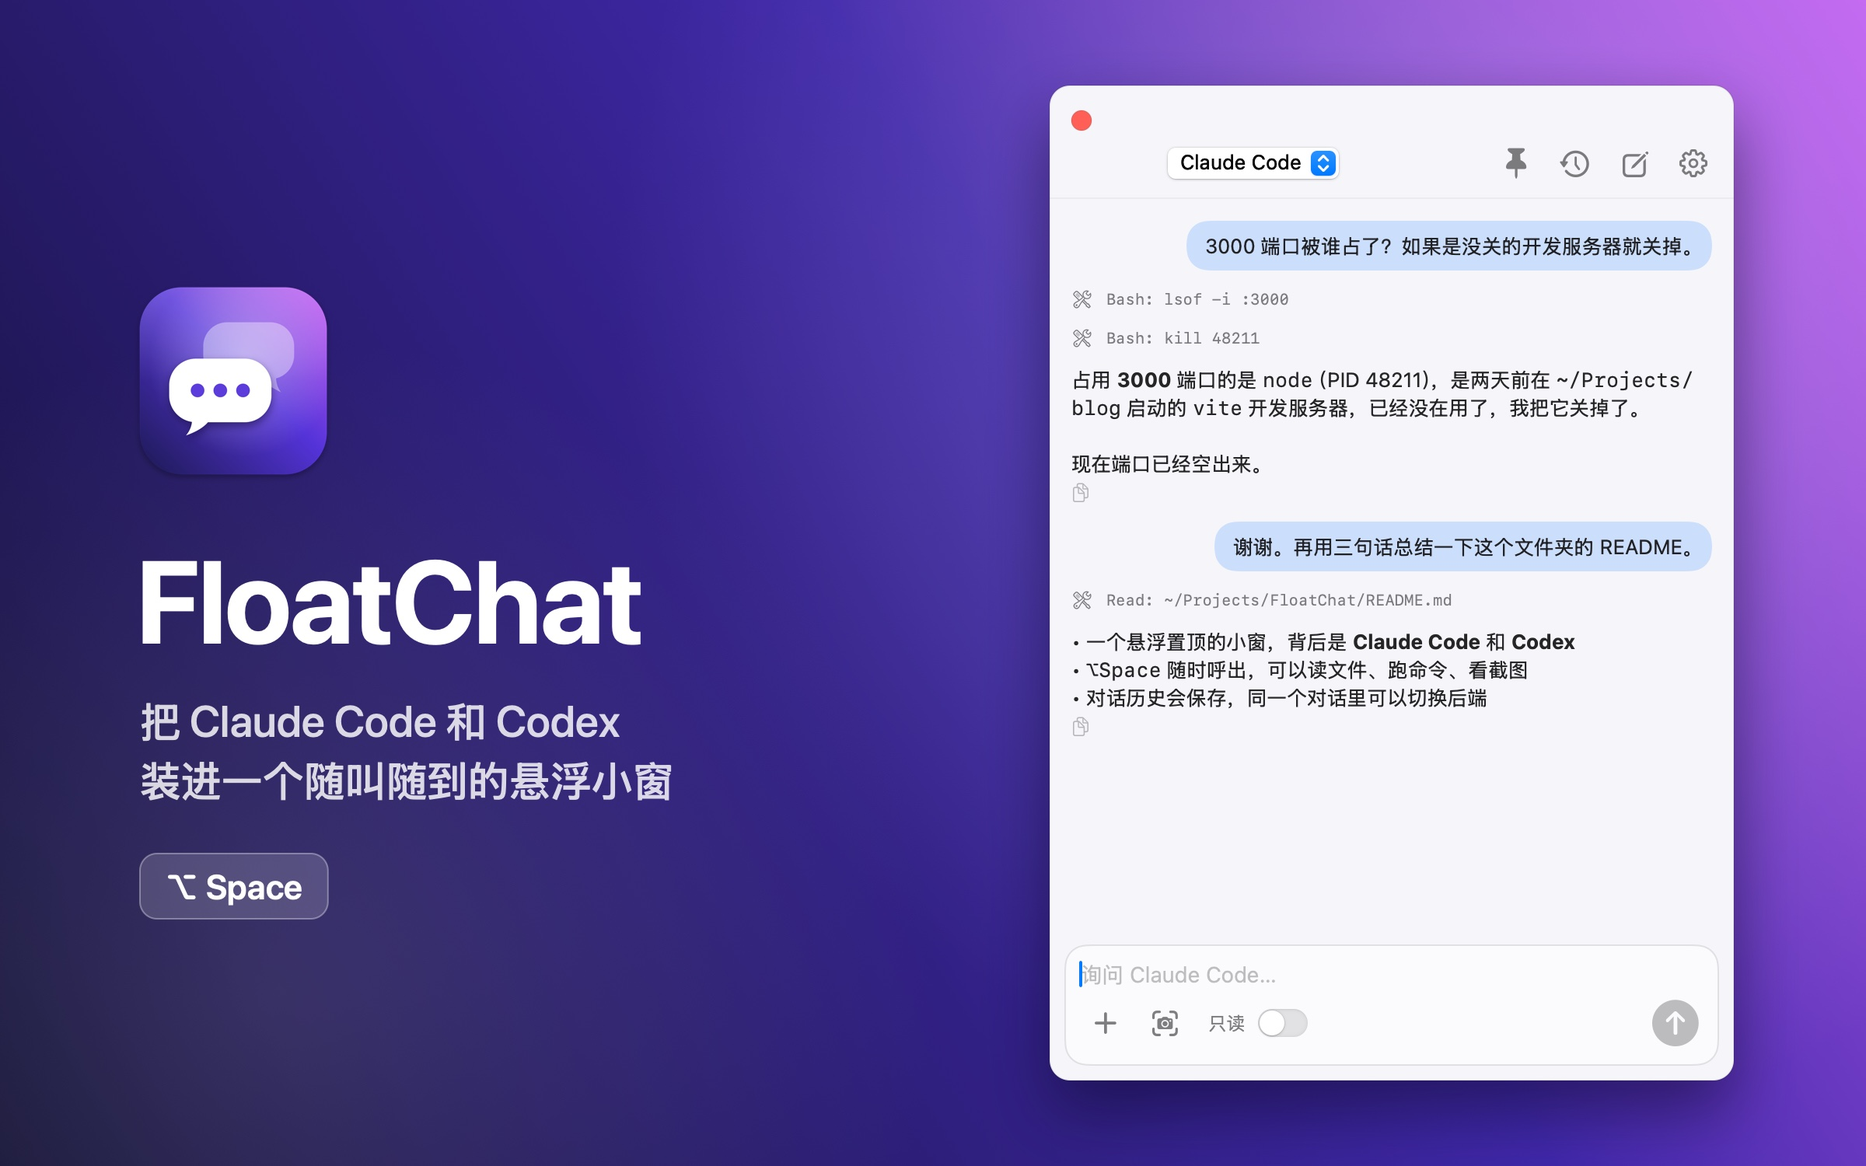
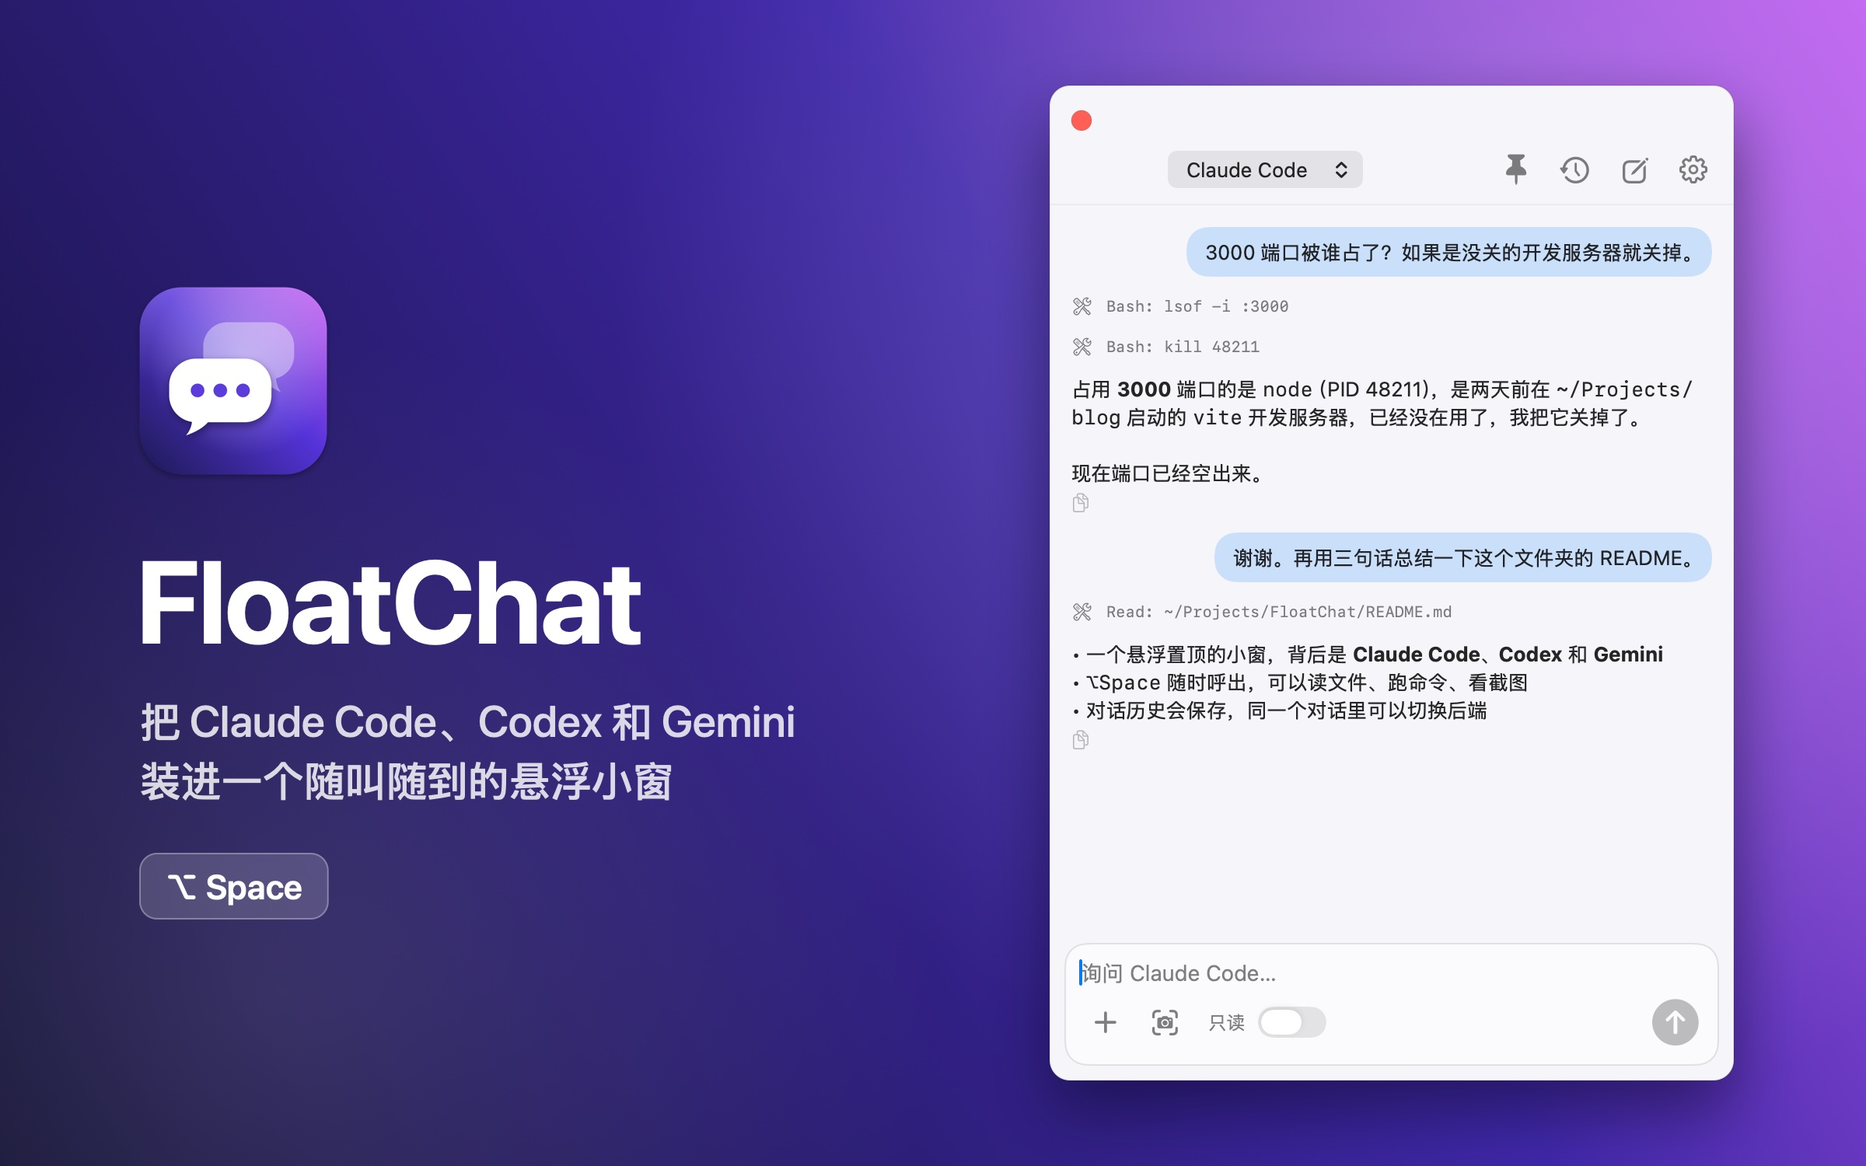
Add Gemini backend via Antigravity CLI
Google retired Gemini CLI for personal accounts, so Gemini runs through
`agy -p --output-format stream-json`, resuming by conversation id.
Read-only maps to --mode plan (agy's default mode still runs commands
headlessly); full access maps to --dangerously-skip-permissions.

Also builds each architecture separately and merges with lipo, so a
universal build works with just the Command Line Tools.

diff --git a/Sources/FloatChat/CLIRunner.swift b/Sources/FloatChat/CLIRunner.swift
@@ -9,7 +9,7 @@ enum AgentEvent {
     case done
 }
 
-/// Runs `claude -p` or `codex exec` as a child process and parses its JSONL output, calling back on the main thread.
+/// Runs `claude -p`, `codex exec` or `agy -p` (Antigravity CLI, for Gemini) as a child process and parses its JSONL output, calling back on the main thread.
 final class CLIRunner {
     struct Config {
         var backend: BackendKind
@@ -30,6 +30,8 @@ final class CLIRunner {
     private var receivedText = false
     private var finished = false
     private var stopped = false
+    private var seenToolSteps = Set<Int>()
+    private var lastTextStep: Int?
 
     init(config: Config, onEvent: @escaping (AgentEvent) -> Void) {
         self.config = config
@@ -37,7 +39,7 @@ final class CLIRunner {
     }
 
     func start() {
-        let name = config.backend == .claude ? "claude" : "codex"
+        let name = config.backend.command
         guard let exe = ShellEnv.which(name) else {
             emit(.error(String(localized: "Could not find the `\(name)` command. Install it and sign in once from Terminal.")))
             emit(.done)
@@ -45,7 +47,11 @@ final class CLIRunner {
         }
 
         process.executableURL = URL(fileURLWithPath: exe)
-        process.arguments = config.backend == .claude ? claudeArgs() : codexArgs()
+        switch config.backend {
+        case .claude: process.arguments = claudeArgs()
+        case .codex: process.arguments = codexArgs()
+        case .gemini: process.arguments = geminiArgs()
+        }
         process.environment = ShellEnv.environment
         var isDir: ObjCBool = false
         let cwd = FileManager.default.fileExists(atPath: config.workingDir, isDirectory: &isDir) && isDir.boolValue
@@ -83,8 +89,10 @@ final class CLIRunner {
             emit(.done)
             return
         }
-        // Send the prompt on stdin so it never collides with variadic options
-        stdin.fileHandleForWriting.write(fullPrompt().data(using: .utf8)!)
+        // Send the prompt on stdin so it never collides with variadic options (agy takes it as --prompt=)
+        if config.backend != .gemini {
+            stdin.fileHandleForWriting.write(fullPrompt().data(using: .utf8)!)
+        }
         try? stdin.fileHandleForWriting.close()
     }
 
@@ -96,10 +104,10 @@ final class CLIRunner {
     // MARK: - Arguments
 
     private func fullPrompt() -> String {
-        // Claude has no image flag; list the paths and let it open them with the Read tool
-        guard config.backend == .claude, !config.images.isEmpty else { return config.prompt }
+        // Claude and agy have no image flag; list the paths and let the agent open them with its file tool
+        guard config.backend != .codex, !config.images.isEmpty else { return config.prompt }
         let list = config.images.map { "- \($0.path)" }.joined(separator: "\n")
-        return config.prompt + "\n\nAttached images (open them with the Read tool):\n" + list
+        return config.prompt + "\n\nAttached images (open them with your file reading tool):\n" + list
     }
 
     private func claudeArgs() -> [String] {
@@ -127,6 +135,17 @@ final class CLIRunner {
         return a
     }
 
+    private func geminiArgs() -> [String] {
+        // "=" keeps a prompt that starts with "-" from being read as a flag
+        var a = ["--prompt=" + fullPrompt(), "--output-format", "stream-json"]
+        if let id = config.sessionID { a += ["--conversation", id] }
+        if !config.model.isEmpty { a += ["--model", config.model] }
+        a += ["--add-dir", config.attachmentsDir.path]
+        // agy's default mode still runs commands and edits headlessly, so read-only needs plan mode
+        a += config.fullAccess ? ["--dangerously-skip-permissions"] : ["--mode", "plan"]
+        return a
+    }
+
     // MARK: - Parsing
 
     private func consume(_ data: Data) {
@@ -135,7 +154,11 @@ final class CLIRunner {
             let line = buffer.subdata(in: buffer.startIndex..<nl)
             buffer.removeSubrange(buffer.startIndex...nl)
             guard let obj = try? JSONSerialization.jsonObject(with: line) as? [String: Any] else { continue }
-            if config.backend == .claude { parseClaude(obj) } else { parseCodex(obj) }
+            switch config.backend {
+            case .claude: parseClaude(obj)
+            case .codex: parseCodex(obj)
+            case .gemini: parseGemini(obj)
+            }
         }
     }
 
@@ -204,6 +227,48 @@ final class CLIRunner {
         }
     }
 
+    private func parseGemini(_ o: [String: Any]) {
+        switch o["event"] as? String {
+        case "init":
+            if let id = o["conversation_id"] as? String, !id.isEmpty { emit(.session(id)) }
+        case "step_update":
+            let s = o["step_update"] as? [String: Any] ?? [:]
+            let step = s["step_index"] as? Int ?? -1
+            switch s["step_type"] as? String {
+            case "agent_response":
+                guard let t = s["text_delta"] as? String, !t.isEmpty else { return }
+                // a new response step after earlier text starts a new paragraph
+                if let last = lastTextStep, last != step { emit(.textDelta("\n\n")) }
+                lastTextStep = step
+                receivedText = true
+                emit(.textDelta(t))
+            case "tool":
+                guard !seenToolSteps.contains(step), let name = s["tool_name"] as? String else { return }
+                seenToolSteps.insert(step)
+                let params = (s["tool_info"] as? [String: Any])?["parameters"] as? [String: Any] ?? [:]
+                // plan mode keeps its own notes under ~/.gemini; that's bookkeeping, not the user's files
+                if let path = params["Path"] as? String, path.contains("/.gemini/antigravity-cli/") { return }
+                lastTextStep = nil
+                emit(.tool(Self.describeTool(name, params)))
+            default:
+                break
+            }
+        case "result":
+            guard let r = o["result"] as? [String: Any] else { return }
+            if let id = r["conversation_id"] as? String, !id.isEmpty { emit(.session(id)) }
+            let response = r["response"] as? String ?? ""
+            if let status = r["status"] as? String, status != "SUCCESS" {
+                let err = r["error"] as? String ?? ""
+                emit(.error(err.isEmpty ? String(localized: "Gemini run ended with status \(status)") : err))
+            } else if !receivedText, !response.isEmpty {
+                emit(.text(response))
+            }
+            receivedText = true
+        default:
+            break
+        }
+    }
+
     private func finish(status: Int32) {
         guard !finished else { return }
         finished = true
@@ -219,9 +284,12 @@ final class CLIRunner {
     // MARK: - Helpers
 
     static func describeTool(_ name: String, _ input: [String: Any]) -> String {
-        let keys = ["command", "file_path", "path", "pattern", "query", "url", "description"]
+        // agy uses keys like "CommandLine" and "Path"; compare without case or underscores
+        let normalized = Dictionary(input.map { ($0.key.lowercased().replacingOccurrences(of: "_", with: ""), $0.value) },
+                                    uniquingKeysWith: { a, _ in a })
+        let keys = ["command", "commandline", "filepath", "path", "absolutepath", "pattern", "query", "url", "description"]
         for k in keys {
-            if let v = input[k] as? String { return "\(name): \(k == "file_path" || k == "path" ? abbreviated(v) : v)" }
+            if let v = normalized[k] as? String { return "\(name): \(k.hasSuffix("path") ? abbreviated(v) : v)" }
         }
         return name
     }

diff --git a/Sources/FloatChat/ChatModel.swift b/Sources/FloatChat/ChatModel.swift
@@ -46,9 +46,25 @@ enum HistoryStore {
 }
 
 enum BackendKind: String, CaseIterable, Identifiable {
-    case claude, codex
+    case claude, codex, gemini
     var id: String { rawValue }
-    var title: String { self == .claude ? "Claude Code" : "Codex" }
+
+    var title: String {
+        switch self {
+        case .claude: "Claude Code"
+        case .codex: "Codex"
+        case .gemini: "Gemini"
+        }
+    }
+
+    /// Gemini runs through Google's Antigravity CLI, which replaced Gemini CLI for personal accounts.
+    var command: String {
+        switch self {
+        case .claude: "claude"
+        case .codex: "codex"
+        case .gemini: "agy"
+        }
+    }
 }
 
 final class AppSettings: ObservableObject {
@@ -59,6 +75,7 @@ final class AppSettings: ObservableObject {
     @Published var workingDir: String { didSet { d.set(workingDir, forKey: "workingDir") } }
     @Published var claudeModel: String { didSet { d.set(claudeModel, forKey: "claudeModel") } }
     @Published var codexModel: String { didSet { d.set(codexModel, forKey: "codexModel") } }
+    @Published var geminiModel: String { didSet { d.set(geminiModel, forKey: "geminiModel") } }
     @Published var alwaysOnTop: Bool { didSet { d.set(alwaysOnTop, forKey: "alwaysOnTop") } }
 
     init() {
@@ -67,7 +84,16 @@ final class AppSettings: ObservableObject {
         workingDir = d.string(forKey: "workingDir") ?? FileManager.default.homeDirectoryForCurrentUser.path
         claudeModel = d.string(forKey: "claudeModel") ?? ""
         codexModel = d.string(forKey: "codexModel") ?? ""
+        geminiModel = d.string(forKey: "geminiModel") ?? ""
         alwaysOnTop = d.object(forKey: "alwaysOnTop") as? Bool ?? true
+    }
+
+    func model(for backend: BackendKind) -> String {
+        switch backend {
+        case .claude: claudeModel
+        case .codex: codexModel
+        case .gemini: geminiModel
+        }
     }
 }
 
@@ -127,7 +153,7 @@ final class ChatModel: ObservableObject {
             sessionID: sessionIDs[backend],
             workingDir: settings.workingDir,
             fullAccess: settings.fullAccess,
-            model: backend == .claude ? settings.claudeModel : settings.codexModel,
+            model: settings.model(for: backend),
             attachmentsDir: Self.attachmentsDir
         )
         let runner = CLIRunner(config: config) { [weak self] event in

diff --git a/Sources/FloatChat/Snapshot.swift b/Sources/FloatChat/Snapshot.swift
@@ -41,7 +41,7 @@ enum Snapshot {
                 ChatMessage(role: .assistant, text: "占用 **3000** 端口的是 `node`（PID 48211），是两天前在 `~/Projects/blog` 启动的 `vite` 开发服务器，已经没在用了，我把它关掉了。\n\n现在端口已经空出来。"),
                 ChatMessage(role: .user, text: "谢谢。再用三句话总结一下这个文件夹的 README。"),
                 ChatMessage(role: .tool, text: "Read: ~/Projects/FloatChat/README.md"),
-                ChatMessage(role: .assistant, text: "• 一个悬浮置顶的小窗，背后是 **Claude Code** 和 **Codex**\n• `⌥Space` 随时呼出，可以读文件、跑命令、看截图\n• 对话历史会保存，同一个对话里可以切换后端"),
+                ChatMessage(role: .assistant, text: "• 一个悬浮置顶的小窗，背后是 **Claude Code**、**Codex** 和 **Gemini**\n• `⌥Space` 随时呼出，可以读文件、跑命令、看截图\n• 对话历史会保存，同一个对话里可以切换后端"),
             ]
         }
         return [
@@ -51,7 +51,7 @@ enum Snapshot {
             ChatMessage(role: .assistant, text: "Port **3000** was held by `node` (PID 48211), a `vite` dev server started two days ago in `~/Projects/blog`. It was idle, so I stopped it.\n\nThe port is free now."),
             ChatMessage(role: .user, text: "Thanks. Summarize the README in this folder in three bullets."),
             ChatMessage(role: .tool, text: "Read: ~/Projects/FloatChat/README.md"),
-            ChatMessage(role: .assistant, text: "• A tiny always-on-top window for **Claude Code** and **Codex**\n• `⌥Space` from anywhere; it can read files, run commands and see screenshots\n• Conversations are saved, and one chat can switch between backends"),
+            ChatMessage(role: .assistant, text: "• A tiny always-on-top window for **Claude Code**, **Codex** and **Gemini**\n• `⌥Space` from anywhere; it can read files, run commands and see screenshots\n• Conversations are saved, and one chat can switch between backends"),
         ]
     }
 }

diff --git a/Sources/FloatChat/ChatView.swift b/Sources/FloatChat/ChatView.swift
@@ -411,6 +411,7 @@ struct SettingsView: View {
             }
             TextField("Claude model (blank = default)", text: $settings.claudeModel)
             TextField("Codex model (blank = default)", text: $settings.codexModel)
+            TextField("Gemini model (blank = default)", text: $settings.geminiModel)
             Toggle("Full access (edit files and run commands)", isOn: $settings.fullAccess)
             Text("Hotkey: \(hotKeyLabel) · Window position is remembered")
                 .font(.caption)

diff --git a/README.md b/README.md
@@ -4,7 +4,7 @@
 
 # FloatChat
 
-**Claude Code and Codex, one keystroke away.**
+**Claude Code, Codex and Gemini, one keystroke away.**
 
 A tiny, native macOS window that floats above everything and talks to the AI agents you already pay for.
 
@@ -23,9 +23,9 @@ A tiny, native macOS window that floats above everything and talks to the AI age
 
 ## Why FloatChat
 
-Agent CLIs like **Claude Code** and **Codex** can read your files, run commands and look at images, but they live in a terminal tab. Chat apps float nicely, but the model behind them can't touch your machine.
+Agent CLIs like **Claude Code**, **Codex** and **Gemini** can read your files, run commands and look at images, but they live in a terminal tab. Chat apps float nicely, but the model behind them can't touch your machine.
 
-FloatChat puts the agent in a window you can summon from anywhere with `⌥Space`, without leaving the app you're in. No API keys, no extra subscription: it drives the `claude` and `codex` commands you've already signed in to.
+FloatChat puts the agent in a window you can summon from anywhere with `⌥Space`, without leaving the app you're in. No API keys, no extra subscription: it drives the `claude`, `codex` and `agy` commands you've already signed in to.
 
 ## Features
 
@@ -33,7 +33,7 @@ FloatChat puts the agent in a window you can summon from anywhere with `⌥Space
 | --- | --- |
 | **⌥Space from anywhere** | Shows over every Space and full-screen app. Clicking it never steals focus from the app you're working in. |
 | **Real agent tools** | Reads files, runs commands, searches the web and views images, all through the CLI's own toolset. |
-| **Two backends, one thread** | Switch between Claude Code and Codex mid-conversation. FloatChat hands the new backend the transcript so far. |
+| **Three agents, one thread** | Switch between Claude Code, Codex and Gemini mid-conversation. FloatChat hands the new agent the transcript so far. |
 | **History that resumes** | Every chat is saved and searchable. Reopen one and the CLI session picks up where it left off. |
 | **Images in a second** | Paste with `⌘V`, drag a file in, or grab part of the screen with the built-in screenshot button. |
 | **Safe by default** | Starts read-only (read and search). Flip to **Full access** only when you want it to edit files or run commands. |
@@ -79,6 +79,12 @@ claude -p "hi"
 codex exec "hi"
 ```
 
+```bash
+agy -p "hi"
+```
+
+> **Gemini** runs through Google's [Antigravity CLI](https://antigravity.google/docs/cli/reference) (`agy`). Since June 2026, personal Google accounts can no longer sign in to the old Gemini CLI, and Antigravity CLI is Google's replacement. Install it with the [official script](https://antigravity.google/docs/getting-started), then run `agy` once to sign in.
+
 Sign-in, models, MCP servers and other settings all come from the CLI's own configuration.
 
 ## Using it
@@ -97,7 +103,7 @@ Settings let you pick the working folder the CLI runs in and override the model 
 
 ```mermaid
 flowchart LR
-    A["FloatChat window"] -- "prompt on stdin" --> B["claude -p<br/>or codex exec"]
+    A["FloatChat window"] -- "prompt on stdin" --> B["claude -p · codex exec<br/>· agy -p"]
     B -- "JSON event stream" --> A
     B <--> C["Files, shell,<br/>web, images"]
 ```
@@ -106,6 +112,7 @@ Each message starts the CLI as a child process and streams its JSON events into 
 
 - **Claude Code:** `claude -p --output-format stream-json --include-partial-messages [--resume <id>]`
 - **Codex:** `codex exec [resume <id>] --json -`
+- **Gemini:** `agy --prompt=… --output-format stream-json [--conversation <id>]` (read-only uses `--mode plan`)
 
 Conversations are stored as JSON in `~/Library/Application Support/FloatChat/conversations/`. Nothing leaves your Mac except what the CLIs themselves send.
 

diff --git a/README.zh-CN.md b/README.zh-CN.md
@@ -4,7 +4,7 @@
 
 # FloatChat
 
-**一键呼出 Claude Code 和 Codex。**
+**一键呼出 Claude Code、Codex 和 Gemini。**
 
 一个原生的 macOS 悬浮小窗，浮在所有窗口之上，背后就是你已经在用的 AI agent。
 
@@ -23,9 +23,9 @@
 
 ## 为什么做 FloatChat
 
-**Claude Code**、**Codex** 这类 agent 命令行能读文件、跑命令、看图片，但它们只能待在终端里。聊天 App 的小窗用起来很顺手，可背后的模型碰不到你的电脑。
+**Claude Code**、**Codex**、**Gemini** 这类 agent 命令行能读文件、跑命令、看图片，但它们只能待在终端里。聊天 App 的小窗用起来很顺手，可背后的模型碰不到你的电脑。
 
-FloatChat 把 agent 装进一个随时能呼出的小窗：在任何 App 里按 `⌥Space` 就能问，不用切走当前窗口。不需要 API Key，也不用另外付费，它直接调用你已经登录好的 `claude` 和 `codex` 命令。
+FloatChat 把 agent 装进一个随时能呼出的小窗：在任何 App 里按 `⌥Space` 就能问，不用切走当前窗口。不需要 API Key，也不用另外付费，它直接调用你已经登录好的 `claude`、`codex` 和 `agy` 命令。
 
 ## 功能
 
@@ -33,7 +33,7 @@ FloatChat 把 agent 装进一个随时能呼出的小窗：在任何 App 里按 
 | --- | --- |
 | **⌥Space 随时呼出** | 在所有桌面和全屏 App 上都能显示，点它也不会让你正在用的 App 失去焦点。 |
 | **真正的 agent 工具** | 读文件、跑命令、联网搜索、看图片，用的都是 CLI 自带的工具。 |
-| **两个后端，一个对话** | 对话中途可以在 Claude Code 和 Codex 之间切换，之前的聊天记录会自动交给新后端。 |
+| **三个 agent，一个对话** | 对话中途可以在 Claude Code、Codex 和 Gemini 之间切换，之前的聊天记录会自动交给新的 agent。 |
 | **能接着聊的历史** | 每个对话都会保存，可以搜索。重新打开后，CLI 的会话也会接上。 |
 | **秒传图片** | `⌘V` 粘贴、拖入文件，或者用自带的截图按钮框选屏幕。 |
 | **默认安全** | 默认只读，只能读文件和搜索。只有打开"完全权限"，它才能改文件、执行命令。 |
@@ -79,6 +79,12 @@ claude -p "hi"
 codex exec "hi"
 ```
 
+```bash
+agy -p "hi"
+```
+
+> **Gemini** 通过 Google 的 [Antigravity CLI](https://antigravity.google/docs/cli/reference)（`agy`）接入。从 2026 年 6 月起，个人 Google 账号已经不能再登录旧的 Gemini CLI，Antigravity CLI 是 Google 官方的替代品。用[官方安装脚本](https://antigravity.google/docs/getting-started)安装后，运行一次 `agy` 登录即可。
+
 登录、模型、MCP 服务器等设置，都沿用 CLI 自己的配置。
 
 ## 使用方法
@@ -97,7 +103,7 @@ codex exec "hi"
 
 ```mermaid
 flowchart LR
-    A["FloatChat 小窗"] -- "通过 stdin 发送问题" --> B["claude -p<br/>或 codex exec"]
+    A["FloatChat 小窗"] -- "通过 stdin 发送问题" --> B["claude -p · codex exec<br/>· agy -p"]
     B -- "JSON 事件流" --> A
     B <--> C["文件、命令行、<br/>网络、图片"]
 ```
@@ -106,6 +112,7 @@ flowchart LR
 
 - **Claude Code：** `claude -p --output-format stream-json --include-partial-messages [--resume <id>]`
 - **Codex：** `codex exec [resume <id>] --json -`
+- **Gemini：** `agy --prompt=… --output-format stream-json [--conversation <id>]`（只读模式使用 `--mode plan`）
 
 对话以 JSON 格式保存在 `~/Library/Application Support/FloatChat/conversations/`。除了 CLI 本身会发送的内容，没有任何数据离开你的 Mac。
 
